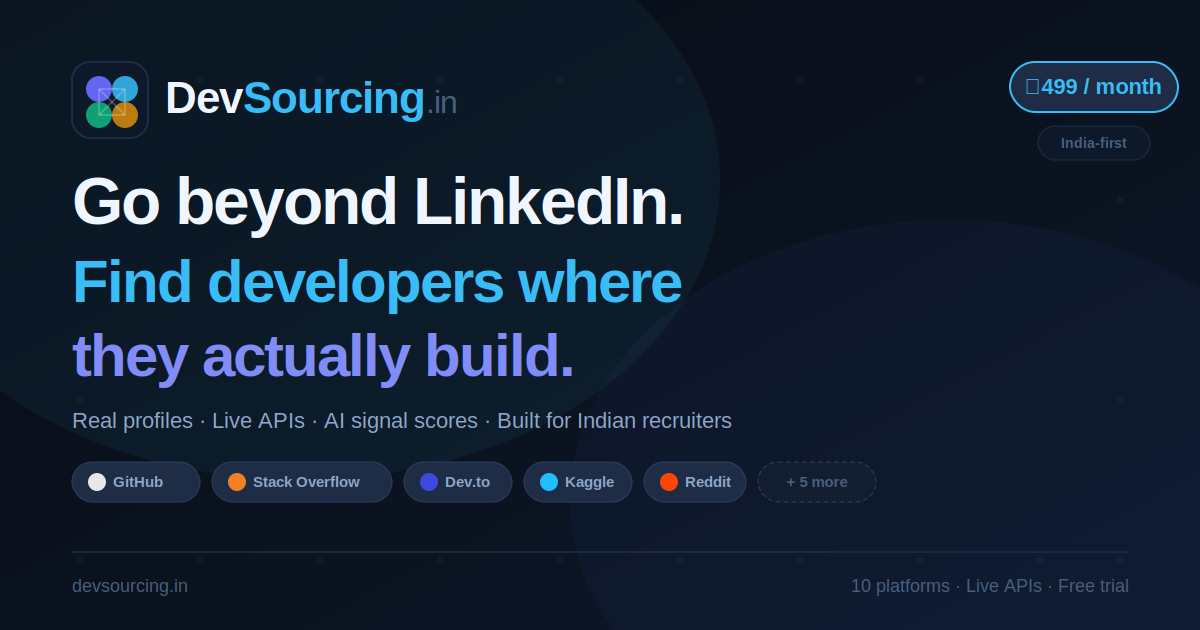
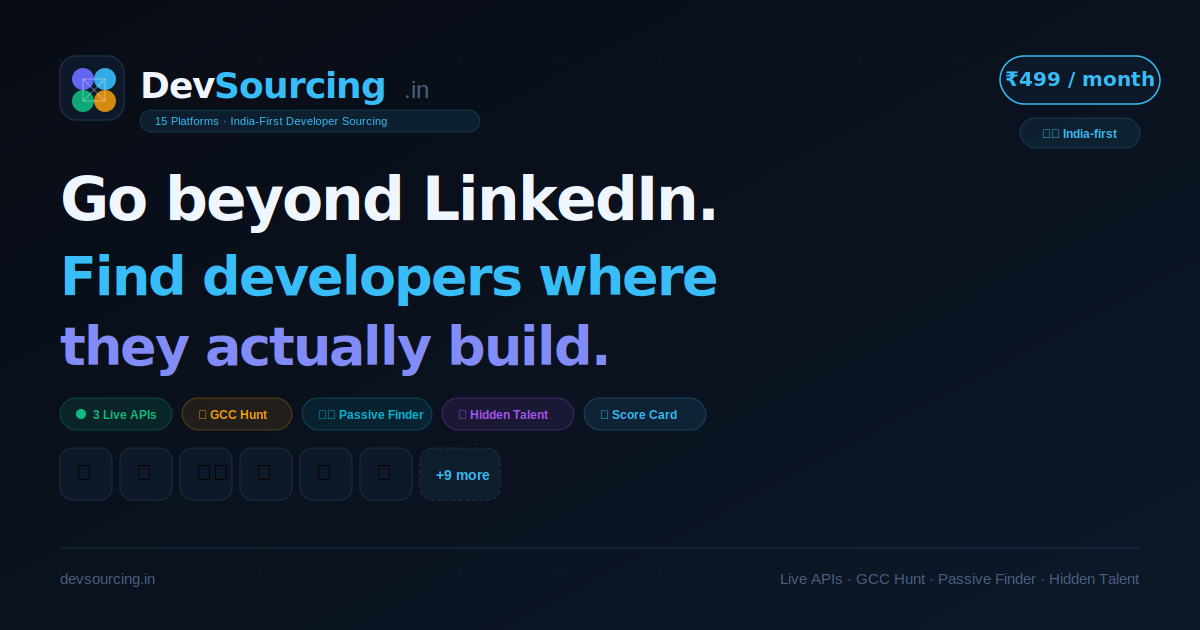
Add files via upload

diff --git a/index.html b/index.html
@@ -6,7 +6,7 @@
 
 <!-- ── PRIMARY SEO ── -->
 <title>DevSourcing.in — Find Developers Where They Build | GitHub · Stack Overflow · Dev.to</title>
-<meta name="description" content="Search real developer profiles across GitHub, Stack Overflow, Dev.to, Kaggle, LeetCode, Reddit and 5 more platforms. Live APIs, AI signal scores, built for Indian recruiters. Start free trial.">
+<meta name="description" content="Search 15 developer platforms — GitHub, Stack Overflow, Dev.to, GCC Hunt, Passive Finder, Hidden Talent + 9 more. AI title expansion, passive candidates, built for Indian recruiters.">
 <meta name="keywords" content="developer sourcing india, find developers india, github talent search, stack overflow recruiter, tech talent sourcing, developer search tool, recruiter tools india, hire developers india, devsourcing, talent acquisition india, IT recruitment india">
 <meta name="author" content="DevSourcing.in">
 <meta name="robots" content="index, follow">
@@ -65,7 +65,7 @@
   "@type": "SoftwareApplication",
   "name": "DevSourcing.in",
   "url": "https://devsourcing.in",
-  "description": "Multi-platform developer talent sourcing tool for Indian recruiters. Search GitHub, Stack Overflow, Dev.to, Kaggle, LeetCode and 5 more platforms.",
+  "description": "15-platform developer sourcing for Indian recruiters. GitHub, Stack Overflow, Dev.to, GCC Hunt (100+ companies), Passive Finder, Hidden Talent AI expansion, Score Card Tool.",
   "applicationCategory": "BusinessApplication",
   "operatingSystem": "Web",
   "offers": {
@@ -84,8 +84,11 @@
     "GitHub developer search",
     "Stack Overflow talent search",
     "Dev.to author search",
-    "Kaggle data scientist search",
-    "LeetCode coder search",
+    "GCC Hunt — 100+ GCC companies",
+    "Tenure Targeting — passive candidates",
+    "Passive Finder — dormant profiles",
+    "Hidden Talent — AI title expansion",
+    "Score Card Tool",
     "AI signal scoring",
     "CSV export",
     "Indian city filtering"
@@ -421,13 +424,13 @@ a{text-decoration:none;color:inherit}
 @media(max-width:680px){.plt-grid{grid-template-columns:repeat(3,1fr);gap:6px}}
 @media(max-width:400px){.plt-grid{grid-template-columns:repeat(2,1fr)}}
 
-.pc{background:var(--bg2);border:1.5px solid var(--b1);border-radius:14px;padding:14px 8px 12px;cursor:pointer;transition:all .18s;position:relative;text-align:center;display:flex;flex-direction:column;align-items:center;justify-content:flex-start;min-height:88px}
+.pc{background:var(--bg2);border:0.5px solid var(--b1);border-radius:12px;padding:12px 8px 10px;cursor:pointer;transition:all .15s;position:relative;text-align:center;display:flex;flex-direction:column;align-items:center;justify-content:flex-start;min-height:82px}
 .pc:hover{border-color:var(--b3);background:var(--bg3);transform:translateY(-2px)}
 .pc.on{border-color:var(--a);background:var(--as);box-shadow:0 0 0 1px var(--a)}
 .pc.xr{border-style:dashed;border-color:var(--b2)}
 .pc.xr.on{border-color:var(--pu);background:var(--pus);border-style:dashed;box-shadow:0 0 0 1px var(--pu)}
 .pc.xr:hover:not(.on){border-color:var(--pu)}
-.pc-ic{font-size:22px;margin-bottom:7px;height:28px;display:flex;align-items:center;justify-content:center}
+.pc-ic{width:32px;height:32px;border-radius:8px;display:flex;align-items:center;justify-content:center;margin-bottom:6px;flex-shrink:0}
 .pc-nm{font-size:11px;font-weight:700;color:var(--t2)}
 .pc-tp{font-size:9px;color:var(--t3);margin-top:3px}
 .pc.on .pc-nm{color:var(--a)}
@@ -602,6 +605,17 @@ body.modal-open{overflow:hidden;position:fixed;width:100%}
 @media(max-width:600px){.nav-links{display:none}.hero-stats{flex-direction:column}.hstat{border-right:none;border-bottom:1px solid var(--b1)}}
 
 /* ── GLOBAL MOBILE FIXES ── */
+@media(max-width:480px){
+  /* Power features 2x2 on small mobile */
+  [style*="grid-template-columns:repeat(4,1fr)"].power-grid,
+  .plt-grid ~ div[style*="grid-template-columns:repeat(4,1fr)"]{
+    grid-template-columns:repeat(2,1fr)!important
+  }
+  /* Live APIs 3-col stays on mobile */
+  [style*="grid-template-columns:repeat(3,1fr)"]{
+    grid-template-columns:repeat(3,1fr)!important
+  }
+}
 /* Critical: prevent horizontal scroll on ALL elements */
 @media(max-width:768px){
   *{max-width:100%;box-sizing:border-box}
@@ -643,6 +657,47 @@ body.modal-open{overflow:hidden;position:fixed;width:100%}
 @media(max-width:400px){
   .plt-grid{grid-template-columns:repeat(2,1fr)!important}
   .hero-stats .hstat-n{font-size:13px!important}
+}
+
+/* ── MOBILE — platform sections ── */
+@media(max-width:540px){
+  /* Power features 2x2 */
+  .power-grid{grid-template-columns:repeat(2,1fr)!important}
+  /* Smart search 3-col → 2-col */
+  .plt-grid{grid-template-columns:repeat(2,1fr)!important;gap:6px!important}
+  /* Live APIs 3-col stays */
+  .live-grid{grid-template-columns:repeat(3,1fr)!important}
+  /* Section labels readable */
+  .plt-sec-label{font-size:9px!important}
+  /* Score card tabs */
+  .sct-tabs{overflow-x:auto;-webkit-overflow-scrolling:touch}
+  .sct-tab{min-width:70px;flex-shrink:0}
+  /* XRay queries — prevent overflow */
+  .xqc{flex-wrap:wrap;gap:8px}
+  .bxo{width:100%;margin-top:4px}
+  /* Homepage platform strip */
+  .plat-row{grid-template-columns:repeat(2,1fr)!important}
+  /* Deep profile grid */
+  .dp-comm-grid{grid-template-columns:repeat(3,1fr)!important}
+  /* Admin tabs */
+  .admin-tabs{flex-wrap:wrap}
+  .atb{font-size:10px!important;padding:5px 8px!important;flex:1;min-width:60px}
+}
+@media(max-width:380px){
+  .plt-grid{grid-template-columns:repeat(2,1fr)!important}
+  .hero h1{font-size:22px!important;letter-spacing:-0.5px!important}
+  .hero-stats .hstat-n{font-size:13px!important}
+  .hstat-l{font-size:7px!important}
+}
+/* Fix xql-q text wrapping on all mobile */
+@media(max-width:768px){
+  .xql-q{white-space:normal!important;word-break:break-all!important;font-size:10px!important}
+  .xql-t{font-size:11px!important}
+  .xqc{padding:10px!important}
+  .rbar{flex-direction:column;gap:8px}
+  .rtitle{font-size:14px!important}
+  /* Ensure no element bleeds outside viewport */
+  .cgrid,.ccard,.pcard,.xql,.sct-wrap{max-width:100%;overflow:hidden}
 }
 </style>
 </head>
@@ -703,7 +758,7 @@ body.modal-open{overflow:hidden;position:fixed;width:100%}
     <div class="hero-stats">
       <div class="hstat"><div class="hstat-n">15</div><div class="hstat-l">Platforms</div></div>
       <div class="hstat"><div class="hstat-n">3</div><div class="hstat-l">Live APIs</div></div>
-      <div class="hstat"><div class="hstat-n">10</div><div class="hstat-l">Smart Search</div></div>
+      <div class="hstat"><div class="hstat-n">12</div><div class="hstat-l">Smart Search</div></div>
       <div class="hstat"><div class="hstat-n">Real</div><div class="hstat-l">Profiles</div></div>
     </div>
   </section>
@@ -791,7 +846,19 @@ body.modal-open{overflow:hidden;position:fixed;width:100%}
         <div class="smart-badge" style="background:linear-gradient(135deg,#6366f1,#a78bfa)">Tenure</div>
         <div class="pcard-ic" style="background:#f5f3ff;border-radius:6px;font-size:16px;display:flex;align-items:center;justify-content:center">⏳</div>
         <div><div class="pcard-nm">Tenure Target</div><div class="pcard-tp">Passive Candidates</div></div>
-        <div class="pcard-tip"><strong>Tenure Targeting</strong>Find engineers at 2-3yr startups, 3-5yr product cos, 4-6yr GCCs. 70% higher response rate than active seekers.</div>
+        <div class="pcard-tip"><strong>Tenure Targeting</strong>2-3yr startups, 3-5yr product, 4-6yr GCCs. 70% higher response rate.</div>
+      </div>
+      <div class="pcard" style="border-color:rgba(6,182,212,.35)">
+        <div class="smart-badge" style="background:rgba(6,182,212,.15);color:#0369a1;border:1px solid rgba(6,182,212,.3)">Passive</div>
+        <div class="pcard-ic" style="background:#ecfeff;border-radius:6px;font-size:16px;display:flex;align-items:center;justify-content:center">🕵</div>
+        <div><div class="pcard-nm">Passive Finder</div><div class="pcard-tp">Hidden Candidates</div></div>
+        <div class="pcard-tip"><strong>Passive Finder</strong>Dormant profiles — no OTW, long tenure. Highest response rates. Invisible to most recruiters.</div>
+      </div>
+      <div class="pcard" style="border-color:rgba(168,85,247,.35)">
+        <div class="smart-badge" style="background:rgba(168,85,247,.12);color:#7e22ce;border:1px solid rgba(168,85,247,.3)">AI</div>
+        <div class="pcard-ic" style="background:#faf5ff;border-radius:6px;font-size:16px;display:flex;align-items:center;justify-content:center">🔮</div>
+        <div><div class="pcard-nm">Hidden Talent</div><div class="pcard-tp">Title Expansion</div></div>
+        <div class="pcard-tip"><strong>Hidden Talent</strong>"Java Developer" expands to SDE-II, Platform Engineer, Backend Eng + 9 more. 5x bigger pool.</div>
       </div>
       <div class="pcard" style="border-color:rgba(6,182,212,.4)">
         <div class="smart-badge" style="background:linear-gradient(135deg,#06b6d4,#0284c7)">Passive</div>
@@ -873,12 +940,14 @@ body.modal-open{overflow:hidden;position:fixed;width:100%}
       <div class="pc-price">₹499</div>
       <div class="pc-period">per 30 days</div>
       <ul class="pc-features">
-        <li class="pc-feat"><span class="pc-feat-i">✓</span>All 13 platforms — GitHub, SO, Dev.to + 10 Smart Search</li>
-        <li class="pc-feat"><span class="pc-feat-i">✓</span>GCC Hunt — 100+ companies (Walmart, JPMorgan, Google...)</li>
-        <li class="pc-feat"><span class="pc-feat-i">✓</span>Tenure Targeting — passive candidates at 2–6 yr tenure</li>
-        <li class="pc-feat"><span class="pc-feat-i">✓</span>Unlimited searches per day</li>
-        <li class="pc-feat"><span class="pc-feat-i">✓</span>Real profiles — GitHub, Stack Overflow, Dev.to</li>
-        <li class="pc-feat"><span class="pc-feat-i">✓</span>AI signal score on every developer</li>
+        <li class="pc-feat"><span class="pc-feat-i">✓</span>All 15 platforms — GitHub, SO, Dev.to + 12 Smart Search</li>
+        <li class="pc-feat"><span class="pc-feat-i">✓</span>🏢 GCC Hunt — 100+ companies (Walmart, JPMorgan, Google...)</li>
+        <li class="pc-feat"><span class="pc-feat-i">✓</span>⏳ Tenure Targeting — 2-6yr passive candidates</li>
+        <li class="pc-feat"><span class="pc-feat-i">✓</span>🕵 Passive Finder — dormant profiles, highest response rate</li>
+        <li class="pc-feat"><span class="pc-feat-i">✓</span>🔮 Hidden Talent — AI title expansion, 5x bigger pool</li>
+        <li class="pc-feat"><span class="pc-feat-i">✓</span>🎯 Score Card — JD match, LinkedIn URL, PDF, bulk upload</li>
+        <li class="pc-feat"><span class="pc-feat-i">✓</span>AI signal score on every profile · Unlimited searches</li>
+        <li class="pc-feat"><span class="pc-feat-i">✓</span>Export shortlist to CSV · 1-day free trial</li><li class="pc-feat"><span class="pc-feat-i">✓</span>AI signal score on every developer</li>
         <li class="pc-feat"><span class="pc-feat-i">✓</span>Export shortlist to CSV</li>
         <li class="pc-feat"><span class="pc-feat-i">✓</span>1-day free trial to start</li>
       </ul>
@@ -984,13 +1053,30 @@ body.modal-open{overflow:hidden;position:fixed;width:100%}
 <div class="page-app" id="pageApp">
   <div class="app-wrap">
     <div class="sec-label">Select a platform to search</div>
-    <div class="plt-grid">
+    <!-- Platform section labels -->
+    <div style="font-size:9px;font-weight:700;color:var(--t3);text-transform:uppercase;letter-spacing:1px;margin-bottom:8px;padding-left:2px">Live APIs</div>
+    <div style="display:grid;grid-template-columns:repeat(3,1fr);gap:8px;margin-bottom:16px">
       <div class="pc" data-p="github" onclick="selPlat(this)">
-        <div class="pc-ic"><svg width="24" height="24" viewBox="0 0 24 24" fill="var(--t2)"><path d="M12 0C5.37 0 0 5.37 0 12c0 5.31 3.435 9.795 8.205 11.385.6.105.825-.255.825-.57 0-.285-.015-1.23-.015-2.235-3.015.555-3.795-.735-4.035-1.41-.135-.345-.72-1.41-1.23-1.695-.42-.225-1.02-.78-.015-.795.945-.015 1.62.87 1.845 1.23 1.08 1.815 2.805 1.305 3.495.99.105-.78.42-1.305.765-1.605-2.67-.3-5.46-1.335-5.46-5.925 0-1.305.465-2.385 1.23-3.225-.12-.3-.54-1.53.12-3.18 0 0 1.005-.315 3.3 1.23.96-.27 1.98-.405 3-.405s2.04.135 3 .405c2.295-1.56 3.3-1.23 3.3-1.23.66 1.65.24 2.88.12 3.18.765.84 1.23 1.905 1.23 3.225 0 4.605-2.805 5.625-5.475 5.925.435.375.81 1.095.81 2.22 0 1.605-.015 2.895-.015 3.3 0 .315.225.69.825.57A12.02 12.02 0 0024 12c0-6.63-5.37-12-12-12z"/></svg></div>
+        <div class="pc-ic" style="background:#f0f0f0"><svg width="18" height="18" viewBox="0 0 24 24" fill="#1a1a1a"><path d="M12 0C5.37 0 0 5.37 0 12c0 5.31 3.44 9.8 8.21 11.39.6.11.82-.26.82-.57v-2.24c-3.34.73-4.04-1.41-4.04-1.41-.55-1.39-1.34-1.76-1.34-1.76-1.09-.74.08-.73.08-.73 1.2.09 1.84 1.24 1.84 1.24 1.07 1.83 2.81 1.3 3.49 1 .11-.78.42-1.3.76-1.6-2.67-.3-5.47-1.34-5.47-5.93 0-1.31.47-2.38 1.24-3.22-.14-.3-.54-1.52.11-3.18 0 0 1-.32 3.3 1.23a11.5 11.5 0 0 1 6 0c2.3-1.55 3.3-1.23 3.3-1.23.65 1.66.25 2.88.12 3.18.77.84 1.23 1.91 1.23 3.22 0 4.61-2.81 5.63-5.48 5.92.43.37.81 1.1.81 2.22v3.29c0 .32.22.69.82.57A12.02 12.02 0 0 0 24 12C24 5.37 18.63 0 12 0z"/></svg></div>
         <div class="pc-nm"><span class="live-dot"></span>GitHub</div>
         <div class="pc-tp">Live API</div>
-        <div class="pc-tip"><strong>GitHub</strong>Backend devs, OSS contributors. Real repos, stars, commit history.</div>
+        <div class="pc-tip"><strong>GitHub</strong>Real repos, commits, followers. Strongest skill proof signal.</div>
       </div>
+      <div class="pc" data-p="stackoverflow" onclick="selPlat(this)">
+        <div class="pc-ic" style="background:#fff4ed"><svg width="18" height="18" viewBox="0 0 32 32" fill="#f48024"><path d="M22 28v-5h2v7H4v-7h2v5zm-13-6l.4-2 10 2-.4 2zm1-5l.7-1.9 9.3 3.9-.7 1.9zm2-5l1.2-1.7 8.3 5.5-1.2 1.7zm4-5l1.6-1.4 6.5 7-1.6 1.4zm5-4V1h2v4z"/></svg></div>
+        <div class="pc-nm"><span class="live-dot"></span>Stack Overflow</div>
+        <div class="pc-tp">Live API</div>
+        <div class="pc-tip"><strong>Stack Overflow</strong>Reputation built over years. Impossible to fake.</div>
+      </div>
+      <div class="pc" data-p="devto" onclick="selPlat(this)">
+        <div class="pc-ic" style="background:#eef0ff"><svg width="18" height="18" viewBox="0 0 24 24" fill="#3b49df"><path d="M7.42 10.05c-.18-.16-.46-.23-.84-.23H6l.02 2.44.04 2.45.56-.02c.41 0 .63-.07.83-.26.24-.24.26-.36.26-2.2 0-1.91-.02-1.96-.29-2.18zM0 4.94v14.12h24V4.94H0zM8.56 15.3c-.44.58-1.06.77-2.53.77H4.71V8.53h1.4c1.67 0 2.16.18 2.6.9.27.43.29.6.32 2.57.05 2.23-.02 2.73-.47 3.3zm5.09-5.47h-2.47v1.77h1.52v1.28l-.72.04-.75.03v1.77l1.22.03 1.2.04v1.28h-1.6c-1.53 0-1.6-.01-1.87-.3l-.3-.28v-3.16c0-3.02.01-3.18.25-3.48.23-.31.25-.31 1.88-.31h1.64v1.29zm4.68 5.45c-.17.43-.64.79-1 .79-.18 0-.45-.15-.67-.39-.32-.32-.45-.63-.82-2.08l-.9-3.39-.45-1.67h.76c.4 0 .75.02.75.05 0 .06 1.16 4.54 1.26 4.83.04.15.32-.7.73-2.3l.66-2.52.74-.04c.4-.02.73 0 .73.04 0 .14-1.67 6.38-1.8 6.68z"/></svg></div>
+        <div class="pc-nm"><span class="live-dot"></span>Dev.to</div>
+        <div class="pc-tp">Live API</div>
+        <div class="pc-tip"><strong>Dev.to</strong>Articles + reactions = domain expertise proof.</div>
+      </div>
+    </div>
+    <div style="font-size:9px;font-weight:700;color:var(--t3);text-transform:uppercase;letter-spacing:1px;margin-bottom:8px;padding-left:2px">Smart Search</div>
+    <div class="plt-grid">
       <div class="pc" data-p="stackoverflow" onclick="selPlat(this)">
         <div class="pc-ic"><svg width="24" height="24" viewBox="0 0 32 32" fill="#f48024"><path d="M22.438 27.938v-5.5h1.875V29.5H4.438v-7.063h1.875v5.5zm-13.375-6.875.375-1.875 9.5 2-.375 1.875zm1.25-4.75.688-1.75 8.875 3.5-.688 1.75zm2.062-4.5 1-1.625 7.75 4.75-1 1.625zm3.875-4.375 1.438-1.313 6.125 6.688-1.438 1.312zm5.188-4.063V5.5h1.875V9.625z"/></svg></div>
         <div class="pc-nm"><span class="live-dot"></span>Stack Overflow</div>
@@ -1003,44 +1089,44 @@ body.modal-open{overflow:hidden;position:fixed;width:100%}
         <div class="pc-tp">Live API</div>
         <div class="pc-tip"><strong>Dev.to</strong>Technical writers, frontend/backend devs. Articles + reactions = depth signal.</div>
       </div>
-      <div class="pc xr" data-p="reddit" onclick="selPlat(this)">
+      <div class="pc" data-p="reddit" onclick="selPlat(this)">
         <div class="sm-pill">Smart</div>
-        <div class="pc-ic"><svg width="24" height="24" viewBox="0 0 24 24" fill="#ff4500"><path d="M12 0A12 12 0 0 0 0 12a12 12 0 0 0 12 12 12 12 0 0 0 12-12A12 12 0 0 0 12 0zm5.01 4.744c.688 0 1.25.561 1.25 1.249a1.25 1.25 0 0 1-2.498.056l-2.597-.547-.8 3.747c1.824.07 3.48.632 4.674 1.488.308-.309.73-.491 1.207-.491.968 0 1.754.786 1.754 1.754 0 .716-.435 1.333-1.01 1.614a3.111 3.111 0 0 1 .042.52c0 2.694-3.13 4.87-7.004 4.87-3.874 0-7.004-2.176-7.004-4.87 0-.183.015-.366.043-.534A1.748 1.748 0 0 1 4.028 12c0-.968.786-1.754 1.754-1.754.463 0 .898.196 1.207.49 1.207-.883 2.878-1.43 4.744-1.487l.885-4.182a.342.342 0 0 1 .14-.197.35.35 0 0 1 .238-.042l2.906.617a1.214 1.214 0 0 1 1.108-.701zM9.25 12C8.561 12 8 12.562 8 13.25c0 .687.561 1.248 1.25 1.248.687 0 1.248-.561 1.248-1.249 0-.688-.561-1.249-1.249-1.249zm5.5 0c-.687 0-1.248.561-1.248 1.25 0 .687.561 1.248 1.249 1.248.688 0 1.249-.561 1.249-1.249 0-.687-.562-1.249-1.25-1.249zm-5.466 3.99a.327.327 0 0 0-.231.094.33.33 0 0 0 0 .463c.842.842 2.484.913 2.961.913.477 0 2.105-.056 2.961-.913a.361.361 0 0 0 .029-.463.33.33 0 0 0-.464 0c-.547.533-1.684.73-2.512.73-.828 0-1.979-.196-2.512-.73a.326.326 0 0 0-.232-.095z"/></svg></div>
+        <div class="pc-ic" style="background:#fff0ee"><svg width="18" height="18" viewBox="0 0 24 24" fill="#ff4500"><path d="M12 0A12 12 0 0 0 0 12a12 12 0 0 0 12 12 12 12 0 0 0 12-12A12 12 0 0 0 12 0zm5.01 4.744c.688 0 1.25.561 1.25 1.249a1.25 1.25 0 0 1-2.498.056l-2.597-.547-.8 3.747c1.824.07 3.48.632 4.674 1.488.308-.309.73-.491 1.207-.491.968 0 1.754.786 1.754 1.754 0 .716-.435 1.333-1.01 1.614a3.111 3.111 0 0 1 .042.52c0 2.694-3.13 4.87-7.004 4.87-3.874 0-7.004-2.176-7.004-4.87 0-.183.015-.366.043-.534A1.748 1.748 0 0 1 4.028 12c0-.968.786-1.754 1.754-1.754.463 0 .898.196 1.207.49 1.207-.883 2.878-1.43 4.744-1.487l.885-4.182a.342.342 0 0 1 .14-.197.35.35 0 0 1 .238-.042l2.906.617a1.214 1.214 0 0 1 1.108-.701zM9.25 12C8.561 12 8 12.562 8 13.25c0 .687.561 1.248 1.25 1.248.687 0 1.248-.561 1.248-1.249 0-.688-.561-1.249-1.249-1.249zm5.5 0c-.687 0-1.248.561-1.248 1.25 0 .687.561 1.248 1.249 1.248.688 0 1.249-.561 1.249-1.249 0-.687-.562-1.249-1.25-1.249zm-5.466 3.99a.327.327 0 0 0-.231.094.33.33 0 0 0 0 .463c.842.842 2.484.913 2.961.913.477 0 2.105-.056 2.961-.913a.361.361 0 0 0 .029-.463.33.33 0 0 0-.464 0c-.547.533-1.684.73-2.512.73-.828 0-1.979-.196-2.512-.73a.326.326 0 0 0-.232-.095z"/></svg></div>
         <div class="pc-nm">Reddit</div>
         <div class="pc-tp">Smart Search</div>
         <div class="pc-tip"><strong>Reddit</strong>r/python, r/reactjs top contributors. Community-active devs hard to find elsewhere.</div>
       </div>
-      <div class="pc xr" data-p="kaggle" onclick="selPlat(this)">
+      <div class="pc" data-p="kaggle" onclick="selPlat(this)">
         <div class="sm-pill">Smart</div>
-        <div class="pc-ic"><svg width="24" height="24" viewBox="0 0 24 24" fill="#20beff"><path d="M12 0C5.373 0 0 5.373 0 12s5.373 12 12 12 12-5.373 12-12S18.627 0 12 0zm0 2c5.514 0 10 4.486 10 10s-4.486 10-10 10S2 17.514 2 12 6.486 2 12 2zm0 3a7 7 0 1 0 0 14A7 7 0 0 0 12 5zm0 2a5 5 0 1 1 0 10A5 5 0 0 1 12 7zm0 2a3 3 0 1 0 0 6 3 3 0 0 0 0-6z"/></svg></div>
+        <div class="pc-ic" style="background:#e8f9ff"><svg width="18" height="18" viewBox="0 0 24 24" fill="#20beff"><path d="M12 0C5.373 0 0 5.373 0 12s5.373 12 12 12 12-5.373 12-12S18.627 0 12 0zm0 2c5.514 0 10 4.486 10 10s-4.486 10-10 10S2 17.514 2 12 6.486 2 12 2zm0 3a7 7 0 1 0 0 14A7 7 0 0 0 12 5zm0 2a5 5 0 1 1 0 10A5 5 0 0 1 12 7zm0 2a3 3 0 1 0 0 6 3 3 0 0 0 0-6z"/></svg></div>
         <div class="pc-nm">Kaggle</div>
         <div class="pc-tp">Smart Search</div>
         <div class="pc-tip"><strong>Kaggle</strong>Data Scientists, ML Engineers, AI researchers. Competition ranking = verified skill.</div>
       </div>
-      <div class="pc xr" data-p="leetcode" onclick="selPlat(this)">
+      <div class="pc" data-p="leetcode" onclick="selPlat(this)">
         <div class="sm-pill">Smart</div>
-        <div class="pc-ic"><svg width="24" height="24" viewBox="0 0 24 24" fill="#ffa116"><path d="M13.483 0a1.374 1.374 0 0 0-.961.438L7.116 6.226l-3.854 4.126a5.266 5.266 0 0 0-1.209 2.104 5.35 5.35 0 0 0-.125.513 5.527 5.527 0 0 0 .062 2.362 5.83 5.83 0 0 0 .349 1.017 5.938 5.938 0 0 0 1.271 1.818l4.277 4.193.039.038c2.248 2.165 5.852 2.133 8.063-.074l2.396-2.392c.54-.54.54-1.414.003-1.955a1.378 1.378 0 0 0-1.951-.003l-2.396 2.392a3.021 3.021 0 0 1-4.205.038l-.02-.019-4.276-4.193c-.652-.64-.972-1.469-.948-2.263a2.68 2.68 0 0 1 .066-.523 2.545 2.545 0 0 1 .619-1.164L9.13 8.114c1.058-1.134 3.204-1.27 4.43-.278l3.501 2.831c.593.48 1.461.387 1.94-.207a1.384 1.384 0 0 0-.207-1.943l-3.5-2.831c-.8-.647-1.766-1.045-2.774-1.202l2.015-2.158A1.384 1.384 0 0 0 13.483 0zm-2.866 12.815a1.38 1.38 0 0 0-1.38 1.382 1.38 1.38 0 0 0 1.38 1.382H20.79a1.38 1.38 0 0 0 1.38-1.382 1.38 1.38 0 0 0-1.38-1.382z"/></svg></div>
+        <div class="pc-ic" style="background:#fffbee"><svg width="18" height="18" viewBox="0 0 24 24" fill="#ffa116"><path d="M13.483 0a1.374 1.374 0 0 0-.961.438L7.116 6.226l-3.854 4.126a5.266 5.266 0 0 0-1.209 2.104 5.35 5.35 0 0 0-.125.513 5.527 5.527 0 0 0 .062 2.362 5.83 5.83 0 0 0 .349 1.017 5.938 5.938 0 0 0 1.271 1.818l4.277 4.193.039.038c2.248 2.165 5.852 2.133 8.063-.074l2.396-2.392c.54-.54.54-1.414.003-1.955a1.378 1.378 0 0 0-1.951-.003l-2.396 2.392a3.021 3.021 0 0 1-4.205.038l-.02-.019-4.276-4.193c-.652-.64-.972-1.469-.948-2.263a2.68 2.68 0 0 1 .066-.523 2.545 2.545 0 0 1 .619-1.164L9.13 8.114c1.058-1.134 3.204-1.27 4.43-.278l3.501 2.831c.593.48 1.461.387 1.94-.207a1.384 1.384 0 0 0-.207-1.943l-3.5-2.831c-.8-.647-1.766-1.045-2.774-1.202l2.015-2.158A1.384 1.384 0 0 0 13.483 0zm-2.866 12.815a1.38 1.38 0 0 0-1.38 1.382 1.38 1.38 0 0 0 1.38 1.382H20.79a1.38 1.38 0 0 0 1.38-1.382 1.38 1.38 0 0 0-1.38-1.382z"/></svg></div>
         <div class="pc-nm">LeetCode</div>
         <div class="pc-tp">Smart Search</div>
         <div class="pc-tip"><strong>LeetCode</strong>Strong DSA-focused engineers. 500+ solved = top-tier. Great for product companies.</div>
       </div>
-      <div class="pc xr" data-p="medium" onclick="selPlat(this)">
+      <div class="pc" data-p="medium" onclick="selPlat(this)">
         <div class="sm-pill">Smart</div>
-        <div class="pc-ic"><svg width="24" height="24" viewBox="0 0 24 24" fill="var(--t2)"><path d="M13.54 12a6.8 6.8 0 01-6.77 6.82A6.8 6.8 0 010 12a6.8 6.8 0 016.77-6.82A6.8 6.8 0 0113.54 12zM20.96 12c0 3.54-1.51 6.42-3.38 6.42-1.87 0-3.39-2.88-3.39-6.42s1.52-6.42 3.39-6.42 3.38 2.88 3.38 6.42M24 12c0 3.17-.53 5.75-1.19 5.75-.66 0-1.19-2.58-1.19-5.75s.53-5.75 1.19-5.75C23.47 6.25 24 8.83 24 12z"/></svg></div>
+        <div class="pc-ic" style="background:#f5f5f5"><svg width="18" height="18" viewBox="0 0 24 24" fill="#555"><path d="M13.54 12a6.8 6.8 0 01-6.77 6.82A6.8 6.8 0 010 12a6.8 6.8 0 016.77-6.82A6.8 6.8 0 0113.54 12zM20.96 12c0 3.54-1.51 6.42-3.38 6.42-1.87 0-3.39-2.88-3.39-6.42s1.52-6.42 3.39-6.42 3.38 2.88 3.38 6.42M24 12c0 3.17-.53 5.75-1.19 5.75-.66 0-1.19-2.58-1.19-5.75s.53-5.75 1.19-5.75C23.47 6.25 24 8.83 24 12z"/></svg></div>
         <div class="pc-nm">Medium</div>
         <div class="pc-tp">Smart Search</div>
         <div class="pc-tip"><strong>Medium</strong>Technical writers, thought leaders. Published articles = domain expertise proof.</div>
       </div>
-      <div class="pc xr" data-p="meetup" onclick="selPlat(this)">
+      <div class="pc" data-p="meetup" onclick="selPlat(this)">
         <div class="sm-pill">Smart</div>
-        <div class="pc-ic"><svg width="24" height="24" viewBox="0 0 24 24" fill="#f64060"><path d="M19.24 12.59c.08-.29.12-.6.12-.91 0-1.83-1.48-3.31-3.31-3.31-.34 0-.67.05-.98.14C14.44 7.38 13.1 6.5 11.6 6.5c-2.14 0-3.87 1.73-3.87 3.87v.28c-1.48.28-2.6 1.59-2.6 3.15 0 1.77 1.44 3.21 3.21 3.21h10.11c1.47 0 2.66-1.19 2.66-2.66 0-1.08-.65-2.01-1.87-1.76z"/></svg></div>
+        <div class="pc-ic" style="background:#fff0f2"><svg width="18" height="18" viewBox="0 0 24 24" fill="#f64060"><path d="M19.24 12.59c.08-.29.12-.6.12-.91 0-1.83-1.48-3.31-3.31-3.31-.34 0-.67.05-.98.14C14.44 7.38 13.1 6.5 11.6 6.5c-2.14 0-3.87 1.73-3.87 3.87v.28c-1.48.28-2.6 1.59-2.6 3.15 0 1.77 1.44 3.21 3.21 3.21h10.11c1.47 0 2.66-1.19 2.66-2.66 0-1.08-.65-2.01-1.87-1.76z"/></svg></div>
         <div class="pc-nm">Meetup</div>
         <div class="pc-tp">Smart Search</div>
         <div class="pc-tip"><strong>Meetup</strong>Community organisers and speakers. Active in tech events = well-networked senior devs.</div>
       </div>
-      <div class="pc xr" data-p="gdg" onclick="selPlat(this)">
+      <div class="pc" data-p="gdg" onclick="selPlat(this)">
         <div class="sm-pill">Smart</div>
-        <div class="pc-ic"><svg width="24" height="24" viewBox="0 0 48 48"><path fill="#ea4335" d="M24 9.5c3.54 0 6.71 1.22 9.21 3.6l6.85-6.85C35.9 2.38 30.47 0 24 0 14.62 0 6.51 5.38 2.56 13.22l7.98 6.19C12.43 13.72 17.74 9.5 24 9.5z"/><path fill="#4285f4" d="M46.98 24.55c0-1.57-.15-3.09-.38-4.55H24v9.02h12.94c-.58 2.96-2.26 5.48-4.78 7.18l7.73 6c4.51-4.18 7.09-10.36 7.09-17.65z"/><path fill="#fbbc05" d="M10.53 28.59c-.48-1.37-.76-2.83-.76-4.59s.27-3.22.76-4.59l-7.98-6.19C.92 16.46 0 20.12 0 24c0 3.88.92 7.54 2.56 10.78l7.97-6.19z"/><path fill="#34a853" d="M24 48c6.48 0 11.93-2.13 15.89-5.81l-7.73-6c-2.18 1.48-4.91 2.31-8.16 2.31-6.26 0-11.57-4.22-13.47-9.91l-7.98 6.19C6.51 42.62 14.62 48 24 48z"/></svg></div>
+        <div class="pc-ic" style="background:#fff0ee"><svg width="18" height="18" viewBox="0 0 48 48"><path fill="#ea4335" d="M24 9.5c3.54 0 6.71 1.22 9.21 3.6l6.85-6.85C35.9 2.38 30.47 0 24 0 14.62 0 6.51 5.38 2.56 13.22l7.98 6.19C12.43 13.72 17.74 9.5 24 9.5z"/><path fill="#4285f4" d="M46.98 24.55c0-1.57-.15-3.09-.38-4.55H24v9.02h12.94c-.58 2.96-2.26 5.48-4.78 7.18l7.73 6c4.51-4.18 7.09-10.36 7.09-17.65z"/><path fill="#fbbc05" d="M10.53 28.59c-.48-1.37-.76-2.83-.76-4.59s.27-3.22.76-4.59l-7.98-6.19C.92 16.46 0 20.12 0 24c0 3.88.92 7.54 2.56 10.78l7.97-6.19z"/><path fill="#34a853" d="M24 48c6.48 0 11.93-2.13 15.89-5.81l-7.73-6c-2.18 1.48-4.91 2.31-8.16 2.31-6.26 0-11.57-4.22-13.47-9.91l-7.98 6.19C6.51 42.62 14.62 48 24 48z"/></svg></div>
         <div class="pc-nm">GDG</div>
         <div class="pc-tp">Smart Search</div>
         <div class="pc-tip"><strong>GDG / DevFest</strong>Google ecosystem devs (Android, Flutter, Firebase). Speakers = deep expertise.</div>
@@ -1075,16 +1161,50 @@ body.modal-open{overflow:hidden;position:fixed;width:100%}
         <div class="pc-tp">Title Expansion</div>
         <div class="pc-tip"><strong>Hidden Talent Discovery</strong>Search "Java Developer" → AI expands to Backend Engineer, SDE-II, Platform Engineer, Application Developer. 5x bigger talent pool than LinkedIn.</div>
       </div>
-      <div class="pc xr" data-p="aws" onclick="selPlat(this)">
+      <div class="pc" data-p="aws" onclick="selPlat(this)">
         <div class="sm-pill">Smart</div>
-        <div class="pc-ic"><svg width="24" height="24" viewBox="0 0 24 24" fill="#ff9900"><path d="M6.763 10.036c0 .296.032.535.088.71.064.176.144.368.256.576.04.063.056.127.056.183 0 .08-.048.16-.152.24l-.503.335a.383.383 0 0 1-.208.072c-.08 0-.16-.04-.239-.112a2.47 2.47 0 0 1-.287-.375 6.18 6.18 0 0 1-.248-.471c-.622.734-1.405 1.101-2.347 1.101-.67 0-1.205-.191-1.596-.574-.391-.384-.59-.894-.59-1.533 0-.678.239-1.23.726-1.644.487-.415 1.133-.623 1.955-.623.272 0 .551.024.846.064.296.04.6.104.918.176v-.583c0-.607-.127-1.030-.375-1.277-.255-.248-.686-.367-1.3-.367-.28 0-.568.031-.863.103-.295.072-.583.16-.862.272a2.287 2.287 0 0 1-.28.104.488.488 0 0 1-.127.023c-.112 0-.168-.08-.168-.247v-.391c0-.128.016-.224.056-.28a.597.597 0 0 1 .224-.167c.279-.144.614-.264 1.005-.36a4.84 4.84 0 0 1 1.246-.151c.95 0 1.644.216 2.091.647.439.43.662 1.085.662 1.963v2.586zm3.24 1.214c.263 0 .534-.048.822-.144.287-.096.543-.271.758-.51.128-.152.224-.32.272-.512.047-.191.08-.423.08-.694v-.335a6.66 6.66 0 0 0-.735-.136 6.02 6.02 0 0 0-.75-.048c-.535 0-.926.104-1.19.32-.262.215-.39.518-.39.917 0 .375.095.655.295.846.191.2.47.296.838.296zm-3.24-1.214H6.5v2.586c0 .878-.222 1.532-.662 1.963-.447.431-1.14.647-2.091.647a4.84 4.84 0 0 1-1.246-.151c-.391-.096-.726-.216-1.005-.36a.597.597 0 0 1-.224-.167c-.04-.056-.056-.152-.056-.28v-.391c0-.167.056-.247.168-.247a.488.488 0 0 1 .127.023 2.287 2.287 0 0 1 .28.104c.279.112.567.2.862.272.295.072.583.103.863.103.614 0 1.045-.119 1.3-.367.248-.247.375-.67.375-1.277v-.583a6.18 6.18 0 0 1-.918.176c-.295.04-.574.064-.846.064-.822 0-1.468-.208-1.955-.623-.487-.414-.726-.966-.726-1.644 0-.639.199-1.149.59-1.533.391-.383.926-.574 1.596-.574.942 0 1.725.367 2.347 1.101a6.18 6.18 0 0 1 .248-.471.383.383 0 0 1 .208-.072z"/></svg></div>
+        <div class="pc-ic" style="background:#fff8ee"><svg width="18" height="18" viewBox="0 0 24 24" fill="#ff9900"><path d="M6.763 10.036c0 .296.032.535.088.71.064.176.144.368.256.576.04.063.056.127.056.183 0 .08-.048.16-.152.24l-.503.335a.383.383 0 0 1-.208.072c-.08 0-.16-.04-.239-.112a2.47 2.47 0 0 1-.287-.375 6.18 6.18 0 0 1-.248-.471c-.622.734-1.405 1.101-2.347 1.101-.67 0-1.205-.191-1.596-.574-.391-.384-.59-.894-.59-1.533 0-.678.239-1.23.726-1.644.487-.415 1.133-.623 1.955-.623.272 0 .551.024.846.064.296.04.6.104.918.176v-.583c0-.607-.127-1.030-.375-1.277-.255-.248-.686-.367-1.3-.367-.28 0-.568.031-.863.103-.295.072-.583.16-.862.272a2.287 2.287 0 0 1-.28.104.488.488 0 0 1-.127.023c-.112 0-.168-.08-.168-.247v-.391c0-.128.016-.224.056-.28a.597.597 0 0 1 .224-.167c.279-.144.614-.264 1.005-.36a4.84 4.84 0 0 1 1.246-.151c.95 0 1.644.216 2.091.647.439.43.662 1.085.662 1.963v2.586zm3.24 1.214c.263 0 .534-.048.822-.144.287-.096.543-.271.758-.51.128-.152.224-.32.272-.512.047-.191.08-.423.08-.694v-.335a6.66 6.66 0 0 0-.735-.136 6.02 6.02 0 0 0-.75-.048c-.535 0-.926.104-1.19.32-.262.215-.39.518-.39.917 0 .375.095.655.295.846.191.2.47.296.838.296zm-3.24-1.214H6.5v2.586c0 .878-.222 1.532-.662 1.963-.447.431-1.14.647-2.091.647a4.84 4.84 0 0 1-1.246-.151c-.391-.096-.726-.216-1.005-.36a.597.597 0 0 1-.224-.167c-.04-.056-.056-.152-.056-.28v-.391c0-.167.056-.247.168-.247a.488.488 0 0 1 .127.023 2.287 2.287 0 0 1 .28.104c.279.112.567.2.862.272.295.072.583.103.863.103.614 0 1.045-.119 1.3-.367.248-.247.375-.67.375-1.277v-.583a6.18 6.18 0 0 1-.918.176c-.295.04-.574.064-.846.064-.822 0-1.468-.208-1.955-.623-.487-.414-.726-.966-.726-1.644 0-.639.199-1.149.59-1.533.391-.383.926-.574 1.596-.574.942 0 1.725.367 2.347 1.101a6.18 6.18 0 0 1 .248-.471.383.383 0 0 1 .208-.072z"/></svg></div>
         <div class="pc-nm">AWS UG</div>
         <div class="pc-tp">Smart Search</div>
         <div class="pc-tip"><strong>AWS User Group</strong>Cloud architects, DevOps engineers. UG leaders = community-recognized AWS experts.</div>
       </div>
     </div>
+    <div style="font-size:9px;font-weight:700;color:var(--t3);text-transform:uppercase;letter-spacing:1px;margin-bottom:8px;margin-top:16px;padding-left:2px">Power Features</div>
+    <div style="display:grid;grid-template-columns:repeat(4,1fr);gap:8px;margin-bottom:20px">
+      <!-- GCC Hunt -->
+      <div class="pc" data-p="gcc" onclick="selPlat(this)" style="border-color:rgba(245,158,11,.4)">
+        <div class="sm-pill" style="background:rgba(245,158,11,.12);color:#b45309;border-color:rgba(245,158,11,.3)">GCC</div>
+        <div class="pc-ic" style="background:#fffbeb"><svg width="18" height="18" viewBox="0 0 24 24" fill="#b45309"><path d="M3 9l9-7 9 7v11a2 2 0 0 1-2 2H5a2 2 0 0 1-2-2z"/><polyline points="9,22 9,12 15,12 15,22" stroke="#b45309" stroke-width="2" fill="none"/></svg></div>
+        <div class="pc-nm">GCC Hunt</div>
+        <div class="pc-tp">100+ companies</div>
+        <div class="pc-tip"><strong>GCC Hunt</strong>100+ Global Capability Centres. LinkedIn X-Ray + GitHub combined.</div>
+      </div>
+      <!-- Tenure Target -->
+      <div class="pc" data-p="tenure" onclick="selPlat(this)" style="border-color:rgba(99,102,241,.4)">
+        <div class="sm-pill" style="background:rgba(99,102,241,.1);color:#4338ca;border-color:rgba(99,102,241,.3)">Tenure</div>
+        <div class="pc-ic" style="background:#eef2ff"><svg width="18" height="18" viewBox="0 0 24 24" fill="none" stroke="#4338ca" stroke-width="2"><circle cx="12" cy="12" r="10"/><polyline points="12,6 12,12 16,14"/></svg></div>
+        <div class="pc-nm">Tenure Target</div>
+        <div class="pc-tp">Passive candidates</div>
+        <div class="pc-tip"><strong>Tenure Targeting</strong>2-3yr startups, 3-5yr product, 4-6yr GCCs. 70% higher response rate.</div>
+      </div>
+      <!-- Passive Finder -->
+      <div class="pc" data-p="passive" onclick="selPlat(this)" style="border-color:rgba(6,182,212,.4)">
+        <div class="sm-pill" style="background:rgba(6,182,212,.1);color:#0369a1;border-color:rgba(6,182,212,.3)">Passive</div>
+        <div class="pc-ic" style="background:#ecfeff"><svg width="18" height="18" viewBox="0 0 24 24" fill="none" stroke="#0369a1" stroke-width="2"><path d="M17.94 17.94A10.07 10.07 0 0 1 12 20c-7 0-11-8-11-8a18.45 18.45 0 0 1 5.06-5.94"/><path d="M9.9 4.24A9.12 9.12 0 0 1 12 4c7 0 11 8 11 8a18.5 18.5 0 0 1-2.16 3.19"/><line x1="1" y1="1" x2="23" y2="23"/></svg></div>
+        <div class="pc-nm">Passive Finder</div>
+        <div class="pc-tp">Dormant profiles</div>
+        <div class="pc-tip"><strong>Passive Finder</strong>Inactive profiles — no Open to Work, long tenure. Highest response rates.</div>
+      </div>
+      <!-- Hidden Talent -->
+      <div class="pc" data-p="hidden" onclick="selPlat(this)" style="border-color:rgba(168,85,247,.4)">
+        <div class="sm-pill" style="background:rgba(168,85,247,.1);color:#7e22ce;border-color:rgba(168,85,247,.3)">AI</div>
+        <div class="pc-ic" style="background:#faf5ff"><svg width="18" height="18" viewBox="0 0 24 24" fill="none" stroke="#7e22ce" stroke-width="2"><polygon points="12,2 15.09,8.26 22,9.27 17,14.14 18.18,21.02 12,17.77 5.82,21.02 7,14.14 2,9.27 8.91,8.26"/></svg></div>
+        <div class="pc-nm">Hidden Talent</div>
+        <div class="pc-tp">Title expansion</div>
+        <div class="pc-tip"><strong>Hidden Talent</strong>AI title expansion. 5x bigger talent pool than standard search.</div>
+      </div>
+    </div>
 
-    
     <!-- ── SCORE CARD TOOL ── -->
     <div style="margin-bottom:20px">
       <div style="display:flex;align-items:center;gap:10px;margin-bottom:10px;cursor:pointer" onclick="toggleScoreTool()">
@@ -1263,9 +1383,9 @@ body.modal-open{overflow:hidden;position:fixed;width:100%}
             <div style="font-size:9px;color:var(--t3);margin-top:2px">+Passive+HiddenTalent+more</div>
           </div>
           <div style="background:var(--bg2);border:1px solid var(--amb);border-radius:8px;padding:10px;text-align:center">
-            <div style="font-size:16px;font-weight:800;color:var(--am)">2</div>
+            <div style="font-size:16px;font-weight:800;color:var(--am)">4</div>
             <div style="font-size:10px;color:var(--t3)">Power Features</div>
-            <div style="font-size:9px;color:var(--t3);margin-top:2px">GCC Hunt · Tenure Target</div>
+            <div style="font-size:9px;color:var(--t3);margin-top:2px">GCC · Tenure · Passive · Hidden</div>
           </div>
         </div>
       </div>
@@ -1574,11 +1694,10 @@ function showPage(id){
   document.documentElement.scrollTop=0;document.body.scrollTop=0;
 }
 function goHome(){
-  // Clear any hash from URL when going home (fixes #admin showing after logout)
-  if(window.location.hash&&!adminPageActive){
-    history.replaceState(null,'',window.location.pathname);
-  }
-  showPage('pageHome');updateNavLinks(false);
+  adminPageActive=false;
+  history.replaceState(null,'',window.location.pathname);
+  showPage('pageHome');
+  updateNavLinks(false);
 }
 function showAuth(){showPage('pageAuth');updateNavLinks(false);}
 function showApp(){showPage('pageApp');updateNavLinks(true);}
@@ -3007,22 +3126,14 @@ function renderNav(){
   updateNavLinks(true);
 }
 function doSignOut(){
-  const wasAdmin=S.isAdmin;
   localStorage.removeItem('ds_adm');
   S.user=null;S.plan=null;S.isAdmin=false;S.sk='';S.ct='';
+  adminPageActive=false;
   auth.signOut().catch(()=>{});
+  history.replaceState(null,'',window.location.pathname);
   document.getElementById('navUser').innerHTML=`<button class="nav-cta" onclick="showAuth()">Start Free Trial →</button>`;
   updateNavLinks(false);
-  if(wasAdmin){
-    adminPageActive=true;
-    // Use history.replaceState so URL shows /admin path cleanly without polluting history
-    history.replaceState(null,'',window.location.pathname+'#admin');
-    showPage('pageAdmin404');
-  } else {
-    adminPageActive=false;
-    history.replaceState(null,'',window.location.pathname);
-    goHome();
-  }
+  goHome();
 }
 function canSearch(){
   if(!S.user)return false;
